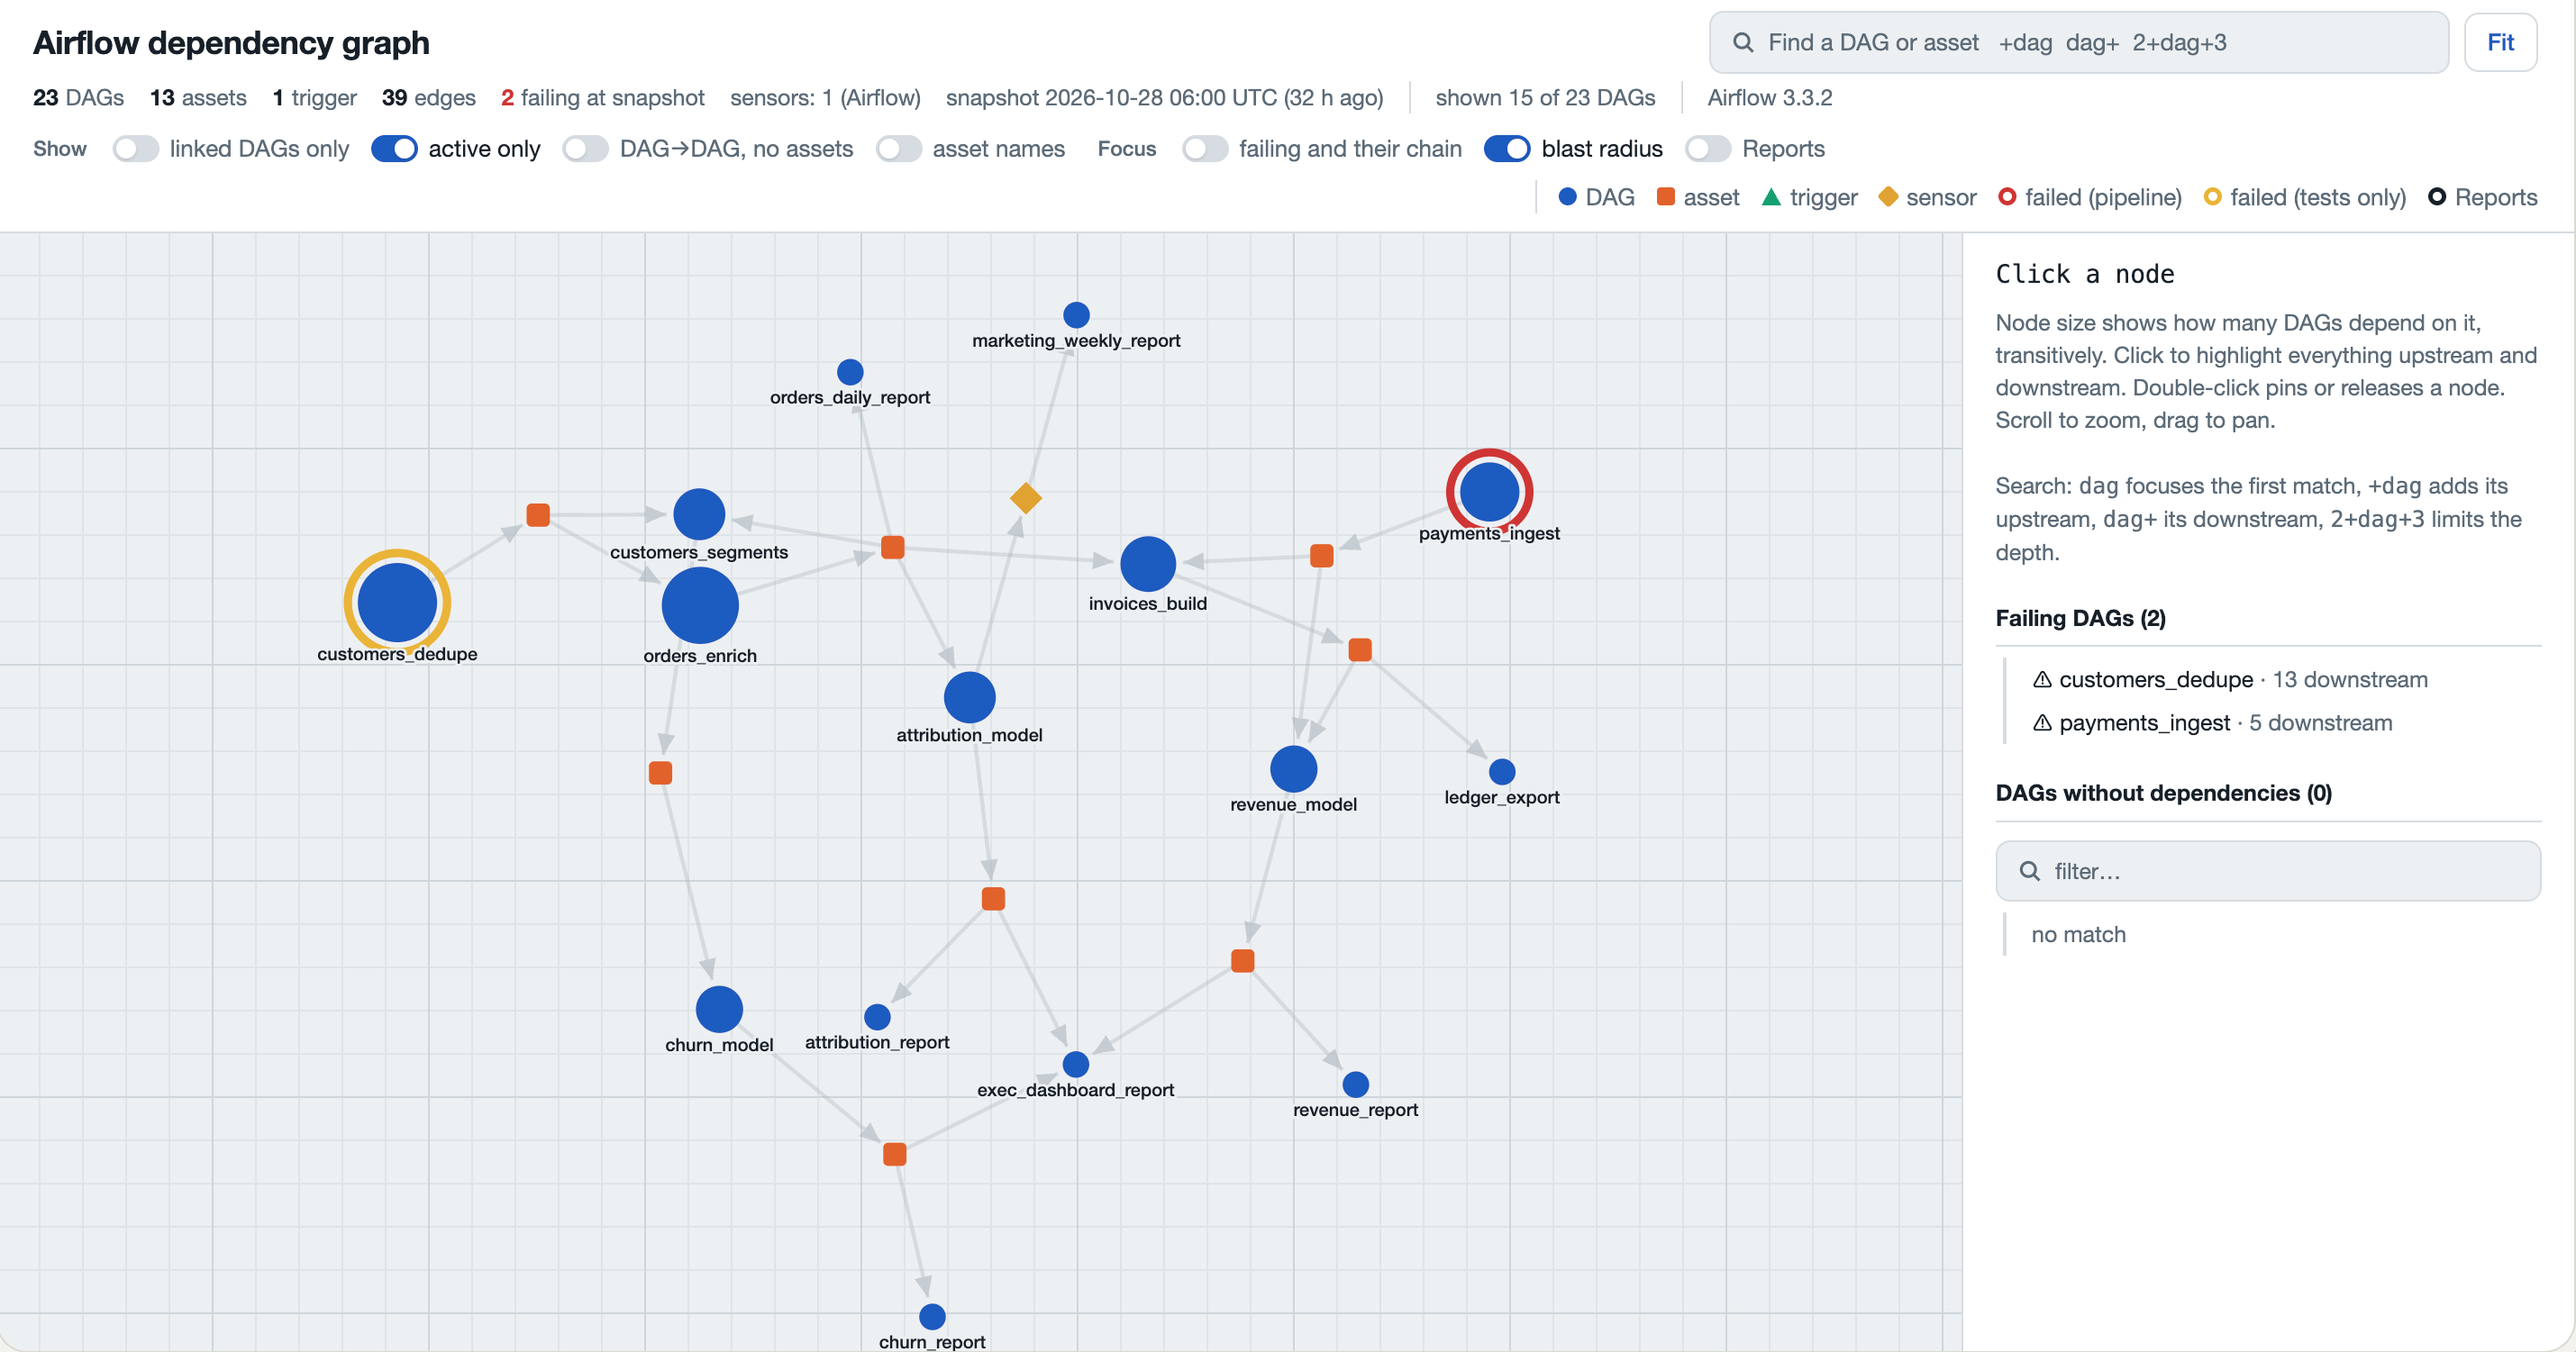
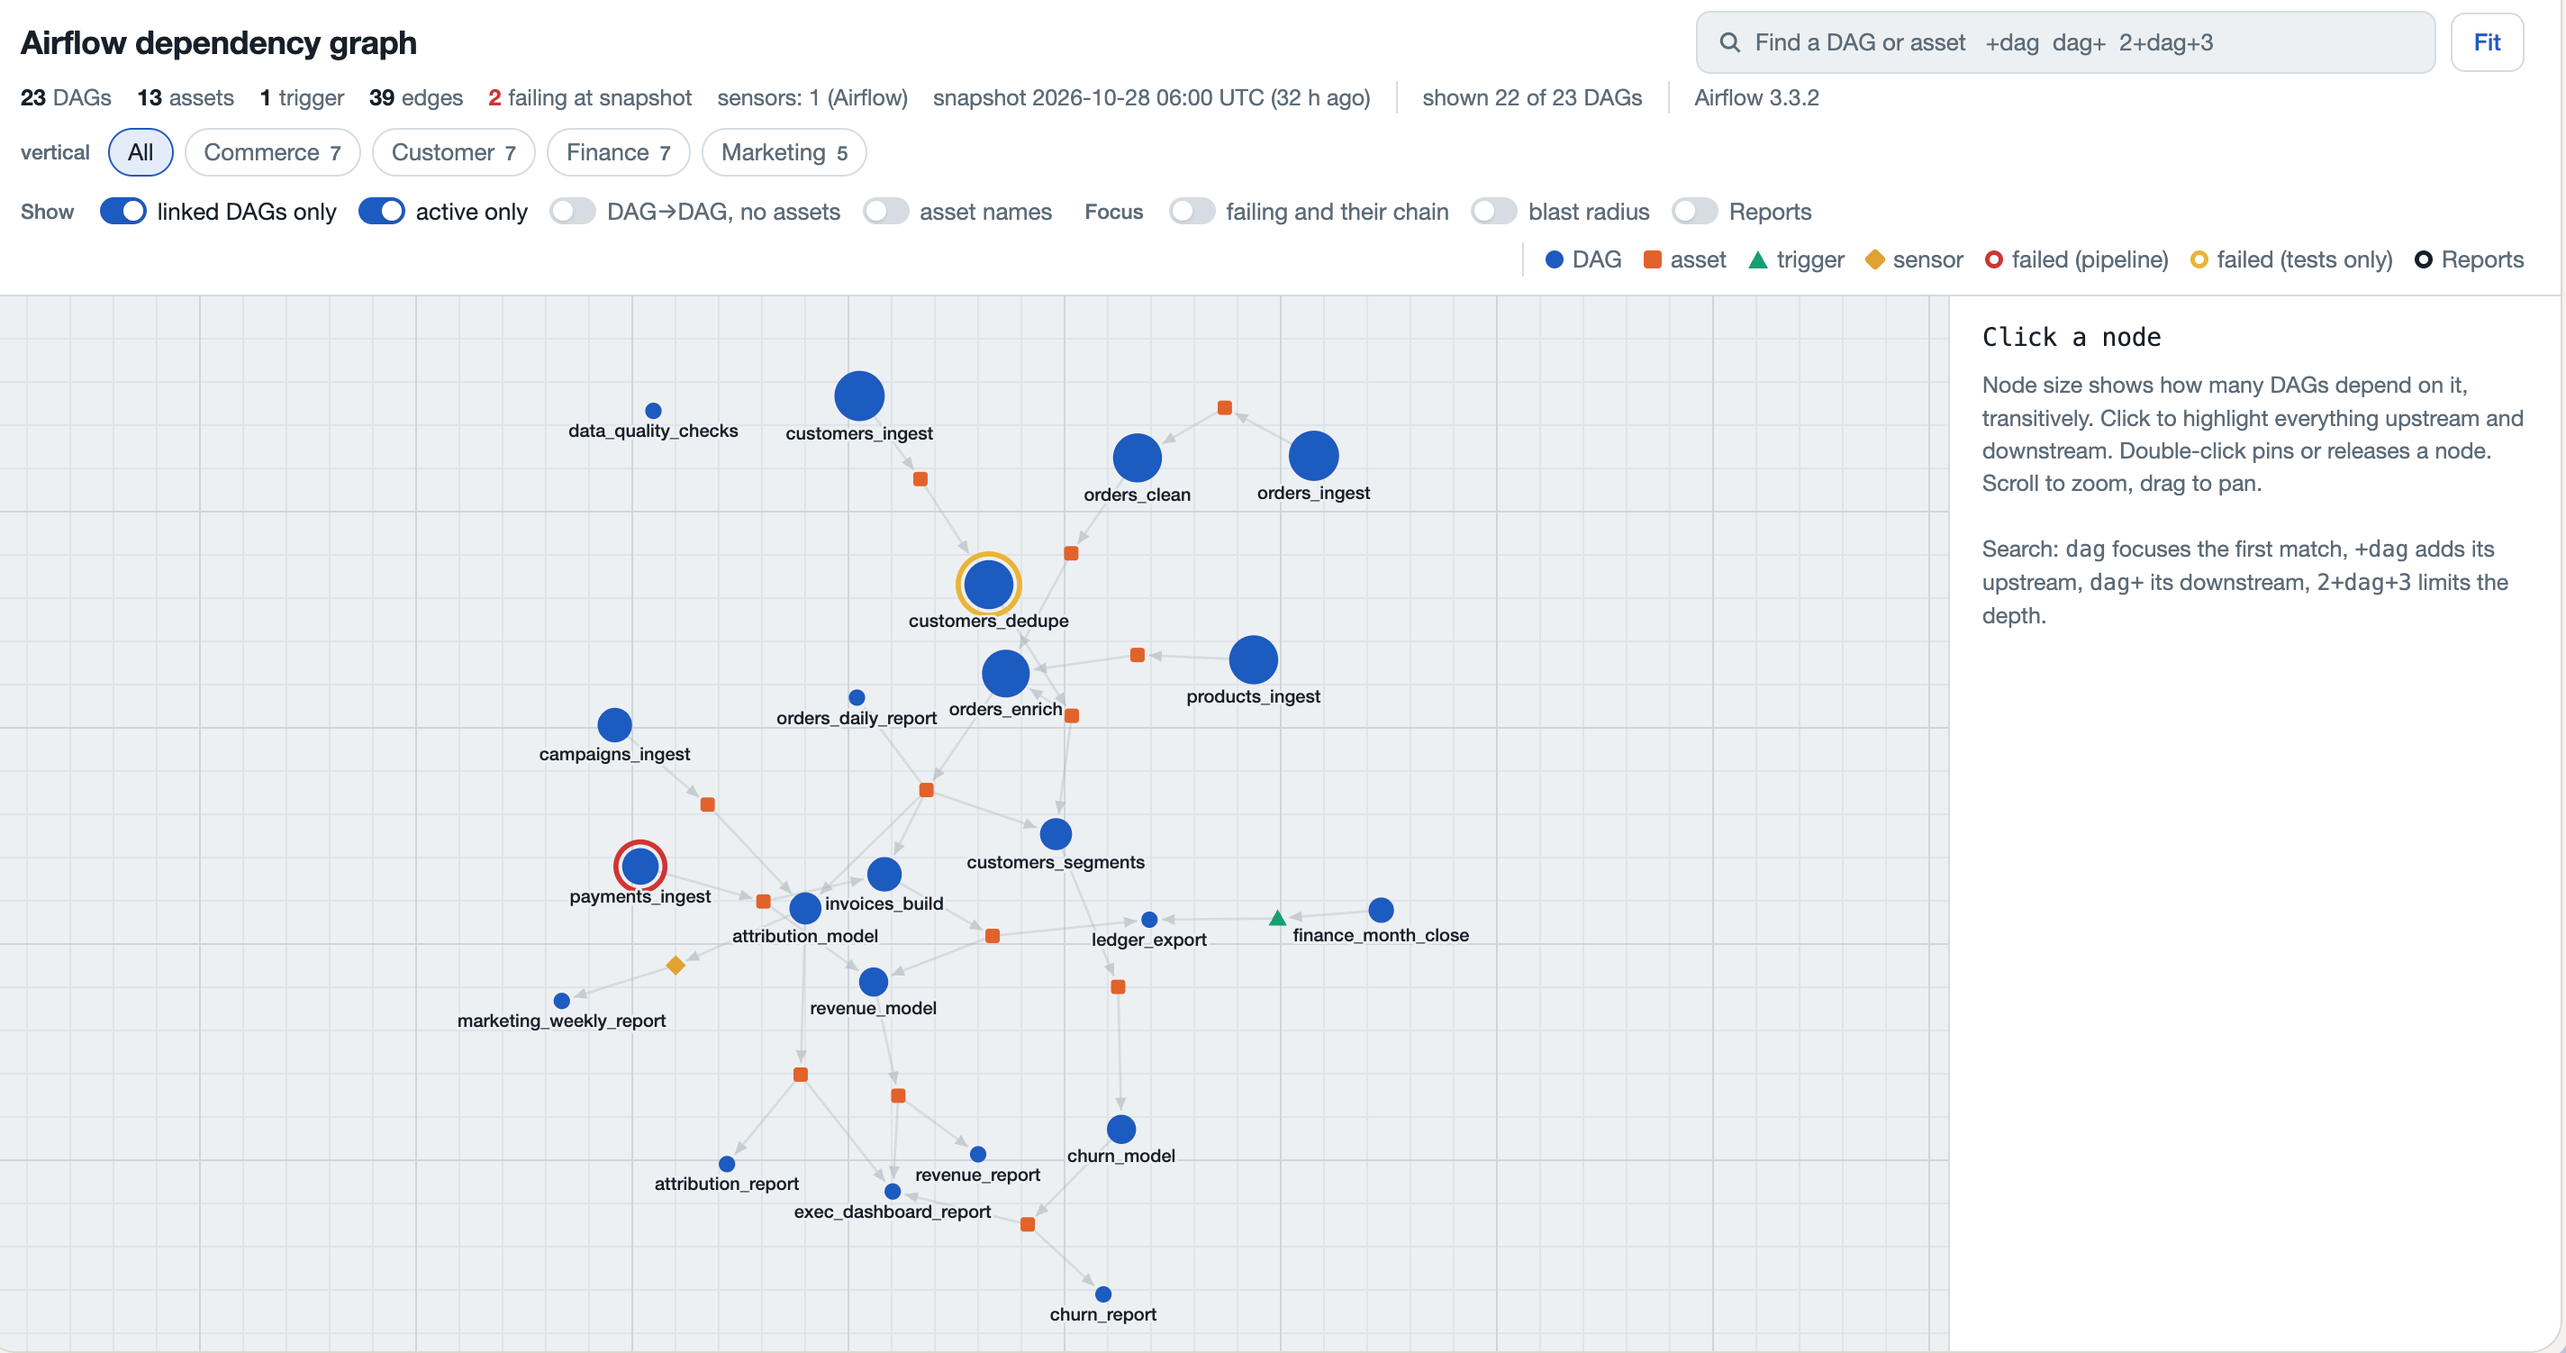
README screenshot with the vertical chips

diff --git a/docs/demo_snapshot.py b/docs/demo_snapshot.py
@@ -1,8 +1,8 @@
 """Write the fictional snapshot behind the README screenshot: python3 docs/demo_snapshot.py demo.json
 
 Screenshot: AIRFLOW_DEPGRAPH_HIGHLIGHT_LABEL=Reports airflow-depgraph render demo.json \
---highlight '_report$' -o demo.html, open it in a window about 1420x750, switch off
-"only linked DAGs", switch on "blast radius", press Fit, nothing selected.
+--highlight '_report$' -o demo.html, open it in a window about 1420x750, press Fit, nothing
+selected and no chip chosen.
 """
 
 from __future__ import annotations

diff --git a/README.md b/README.md
@@ -4,7 +4,7 @@
 
 Fetch, query and render the Airflow 3 cross-DAG dependency graph (DAG → asset / trigger / sensor → DAG) from any Airflow 3 instance. It uses only the Python standard library. The result is a JSON snapshot you can query offline, plus one self-contained HTML page.
 
-![The rendered page: a force-directed graph of DAGs and assets with status rings, blast radius on so only the two failing DAGs and everything downstream of them are shown, and a side panel that lists the failing DAGs with their downstream counts](docs/images/page.png)
+![The rendered page: a force-directed graph of DAGs and assets with status rings on a gridded canvas, a header with counts, vertical chips and switches, and the side panel with the usage hints](docs/images/page.png)
 
 ![How the pieces fit: Airflow → fetch → snapshot → render → HTML, with presets and credentials feeding fetch](docs/images/overview.png)
 
